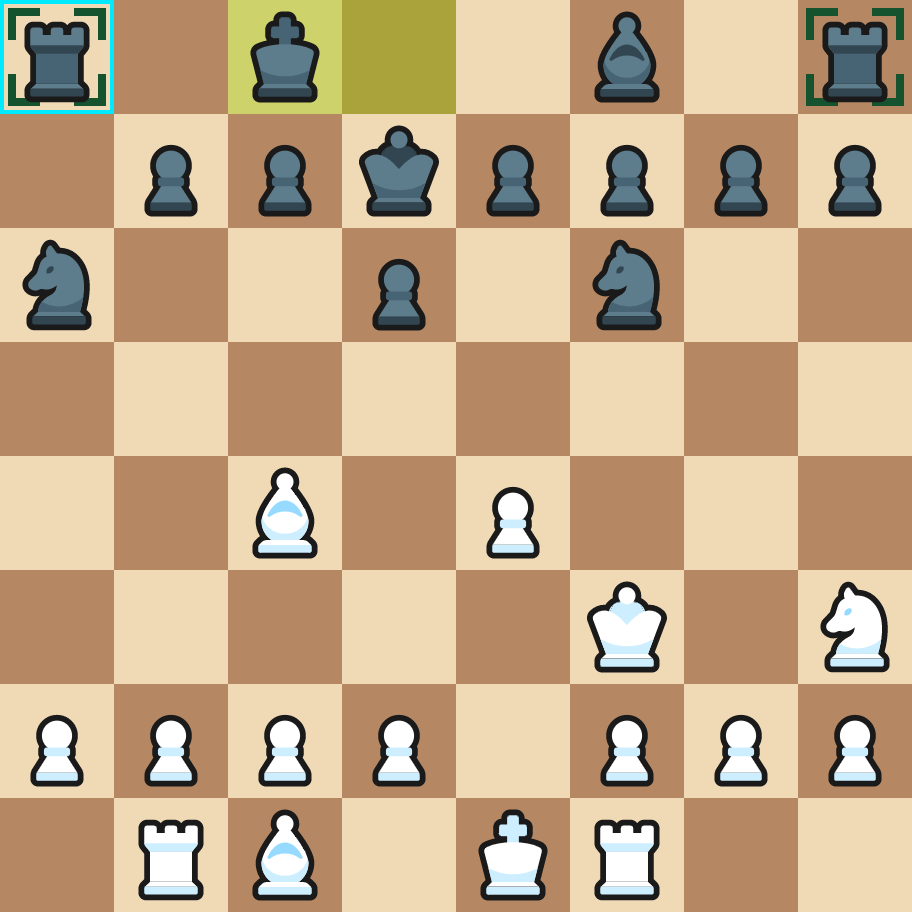
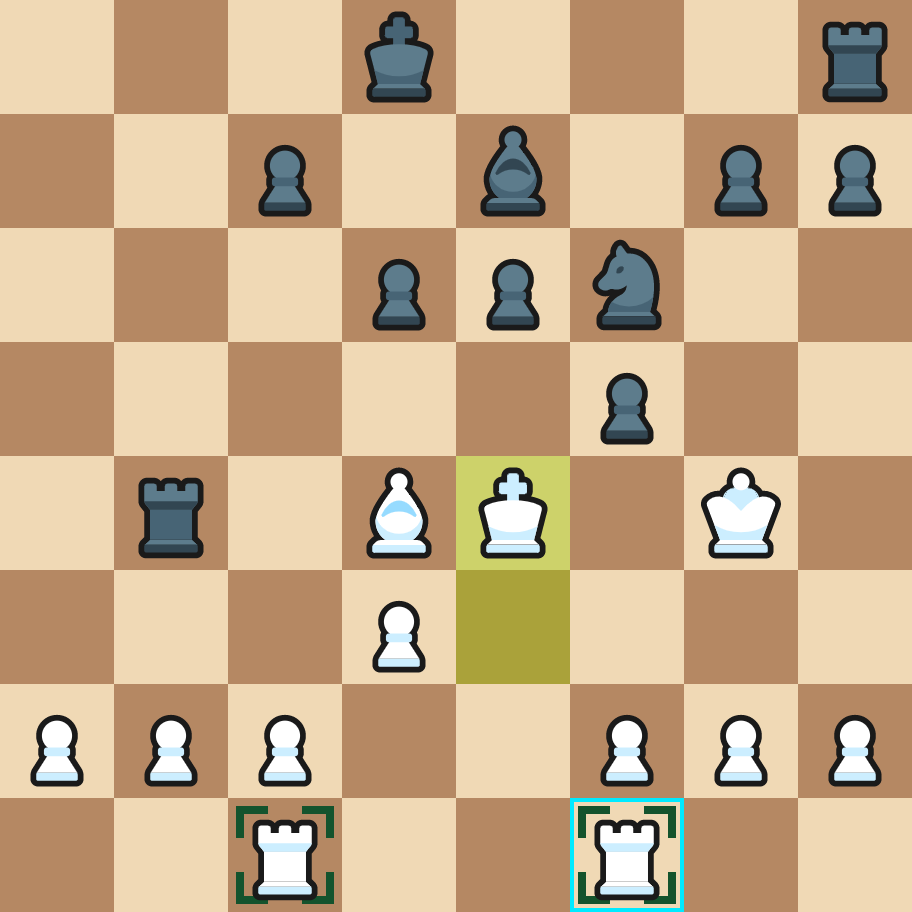
feat(site): show visitors their result and trim the colour check
The owner found the check longer than it needed to be, and two boards
that looked the same:

- The result: after Send, the last screen tells the visitor how many
  marked pieces they found, how many squares they tapped without a
  mark, and the score for each mark. It appears only once the answers
  are sent, so it cannot change them. The fallback screen shows it
  too.
- One screen fewer: the worked example now sits on the first screen,
  under the rule, instead of on a screen of its own.
- A new picture: c-few was taken two actions after c-many and looked
  the same. It is replaced by a later position from the same game,
  with White to move: the rooks on c1 and f1 are marked, with the
  cursor on f1, and the last move is e3-e4.

diff --git a/site/src/check/items.ts b/site/src/check/items.ts
@@ -11,6 +11,13 @@
 export const VARIANTS = ['A', 'B', 'C'] as const;
 export type Variant = (typeof VARIANTS)[number];
 
+// The marks in plain words, for the visitor's result.
+export const MARK_NAMES: Record<Variant, string> = {
+  A: 'Green fill',
+  B: 'Green fill with corners',
+  C: 'Corners only',
+};
+
 export type Item = {
   id: string;
   variant: Variant;
@@ -26,7 +33,8 @@ export type Item = {
 
 // Two pictures per variant: one with several marks, one with a single mark
 // besides the cursor. Each has marks on both square colours and a last move
-// tinted on one light and one dark square.
+// tinted on one light and one dark square, and no two look alike: c-few
+// replaced a picture taken two actions after c-many, which looked the same.
 export const ITEMS: readonly Item[] = [
   {
     id: 'a-many',
@@ -66,9 +74,9 @@ export const ITEMS: readonly Item[] = [
   {
     id: 'c-few',
     variant: 'C',
-    movable: [0, 7],
-    lastMove: [2, 3],
-    cursor: 0,
+    movable: [58, 61],
+    lastMove: [36, 44],
+    cursor: 61,
   },
 ];
 

diff --git a/site/src/check/tester.css b/site/src/check/tester.css
@@ -239,6 +239,18 @@ textarea {
   font-weight: 600;
 }
 
+.result {
+  margin-top: 8px;
+  padding: 12px 16px;
+  border: 1px solid var(--line);
+  border-radius: 10px;
+}
+
+.score {
+  margin-top: 0;
+  font-size: 22px;
+}
+
 /* Kept from people, and from assistive technology; see Code.js. */
 .trap {
   position: absolute;

diff --git a/test/check-items.test.ts b/test/check-items.test.ts
@@ -80,7 +80,7 @@ test('totals add up per variant, over the pictures answered', () => {
   const totals = scoreAnswers({
     'a-many': [10, 12, 14, 15, 19],
     'a-few': [27],
-    'c-few': [7],
+    'c-few': [58],
     unknown: [1, 2, 3],
   });
   assert.deepEqual(totals.A, { found: 5, missed: 1, lastMove: 1, other: 0 });
